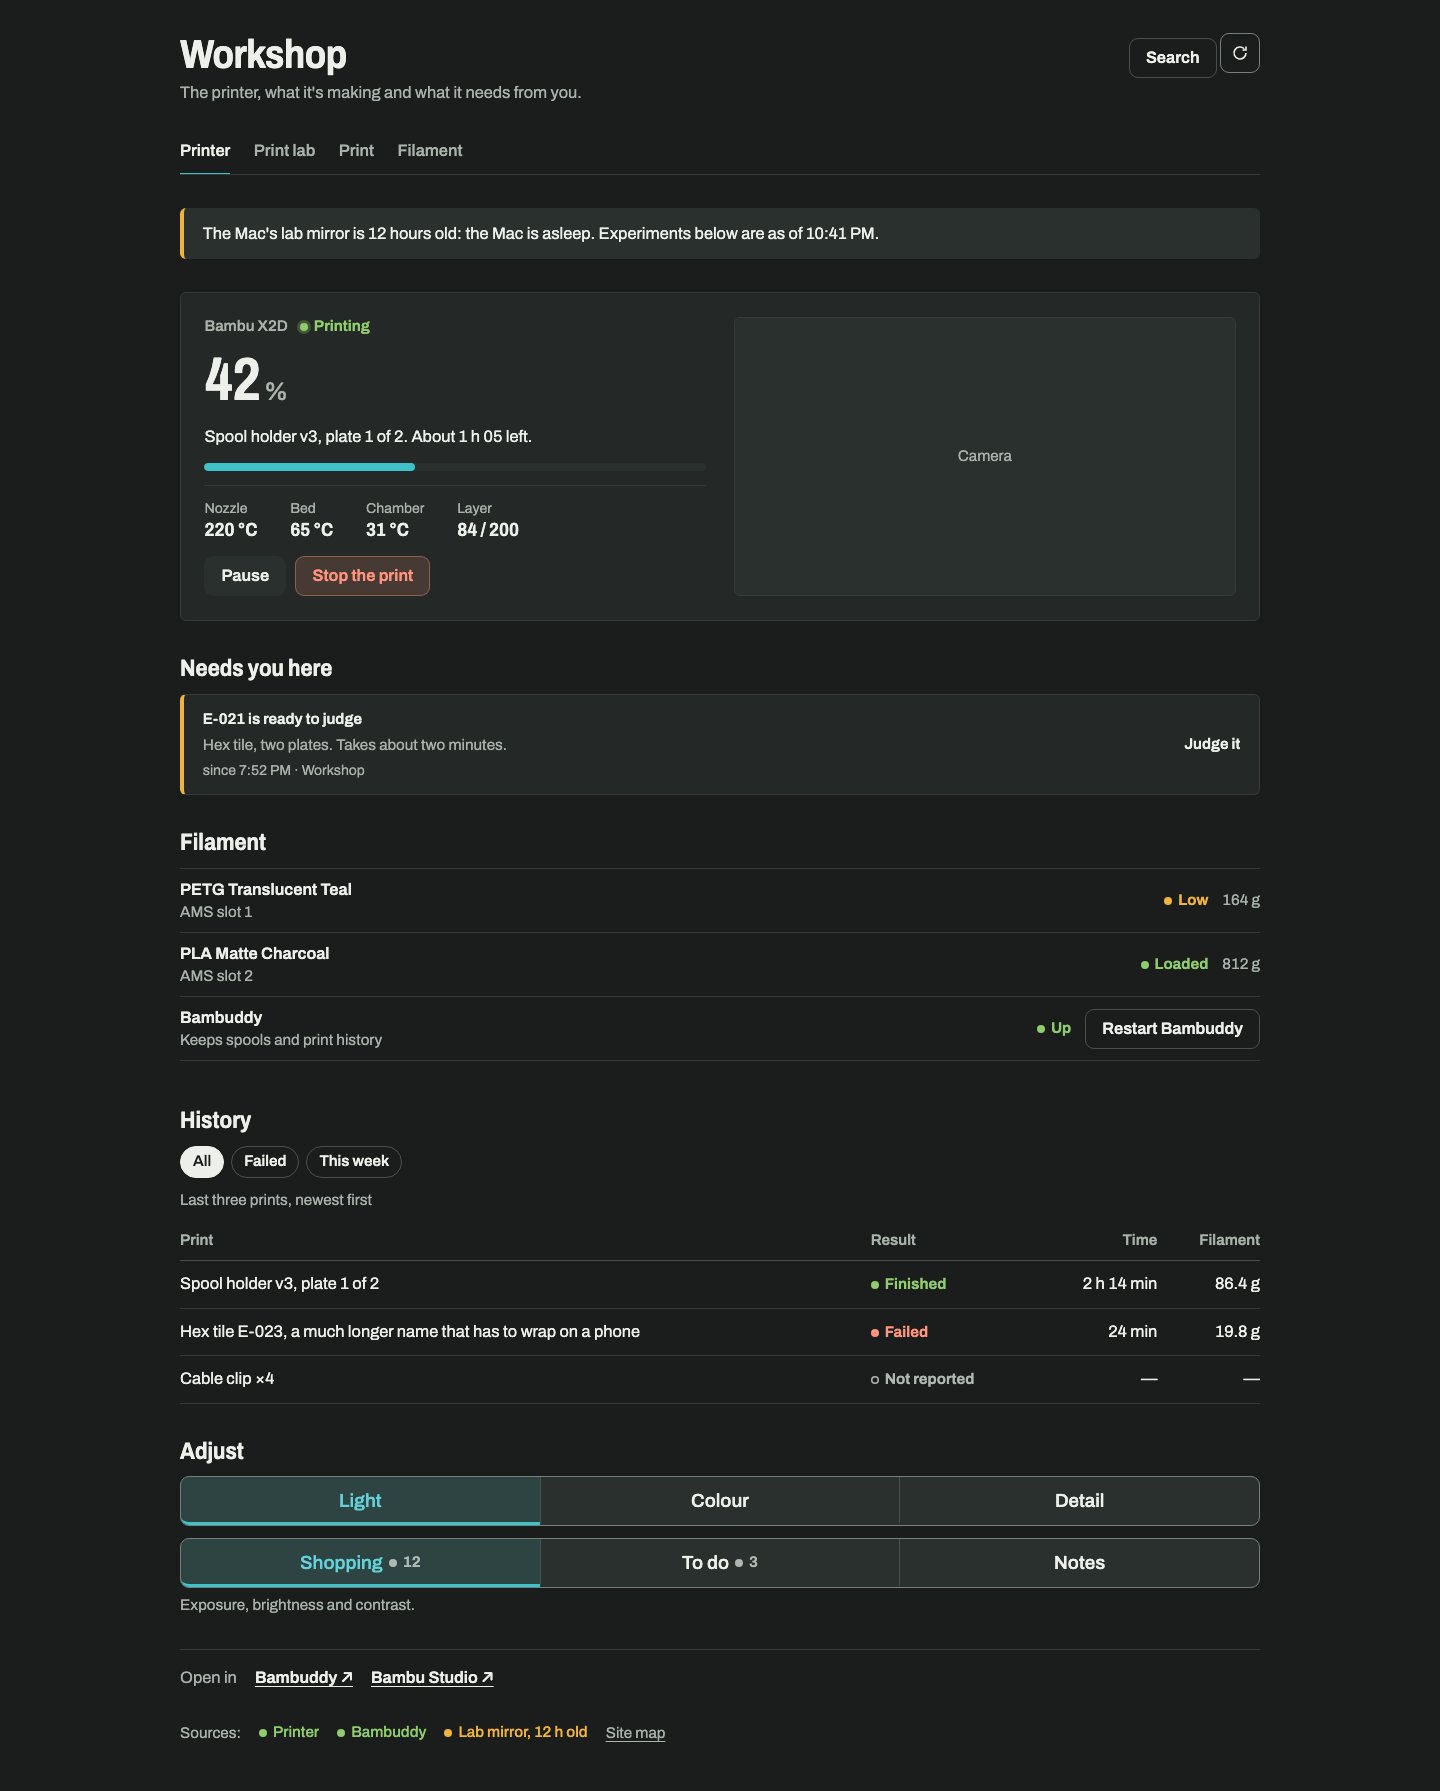
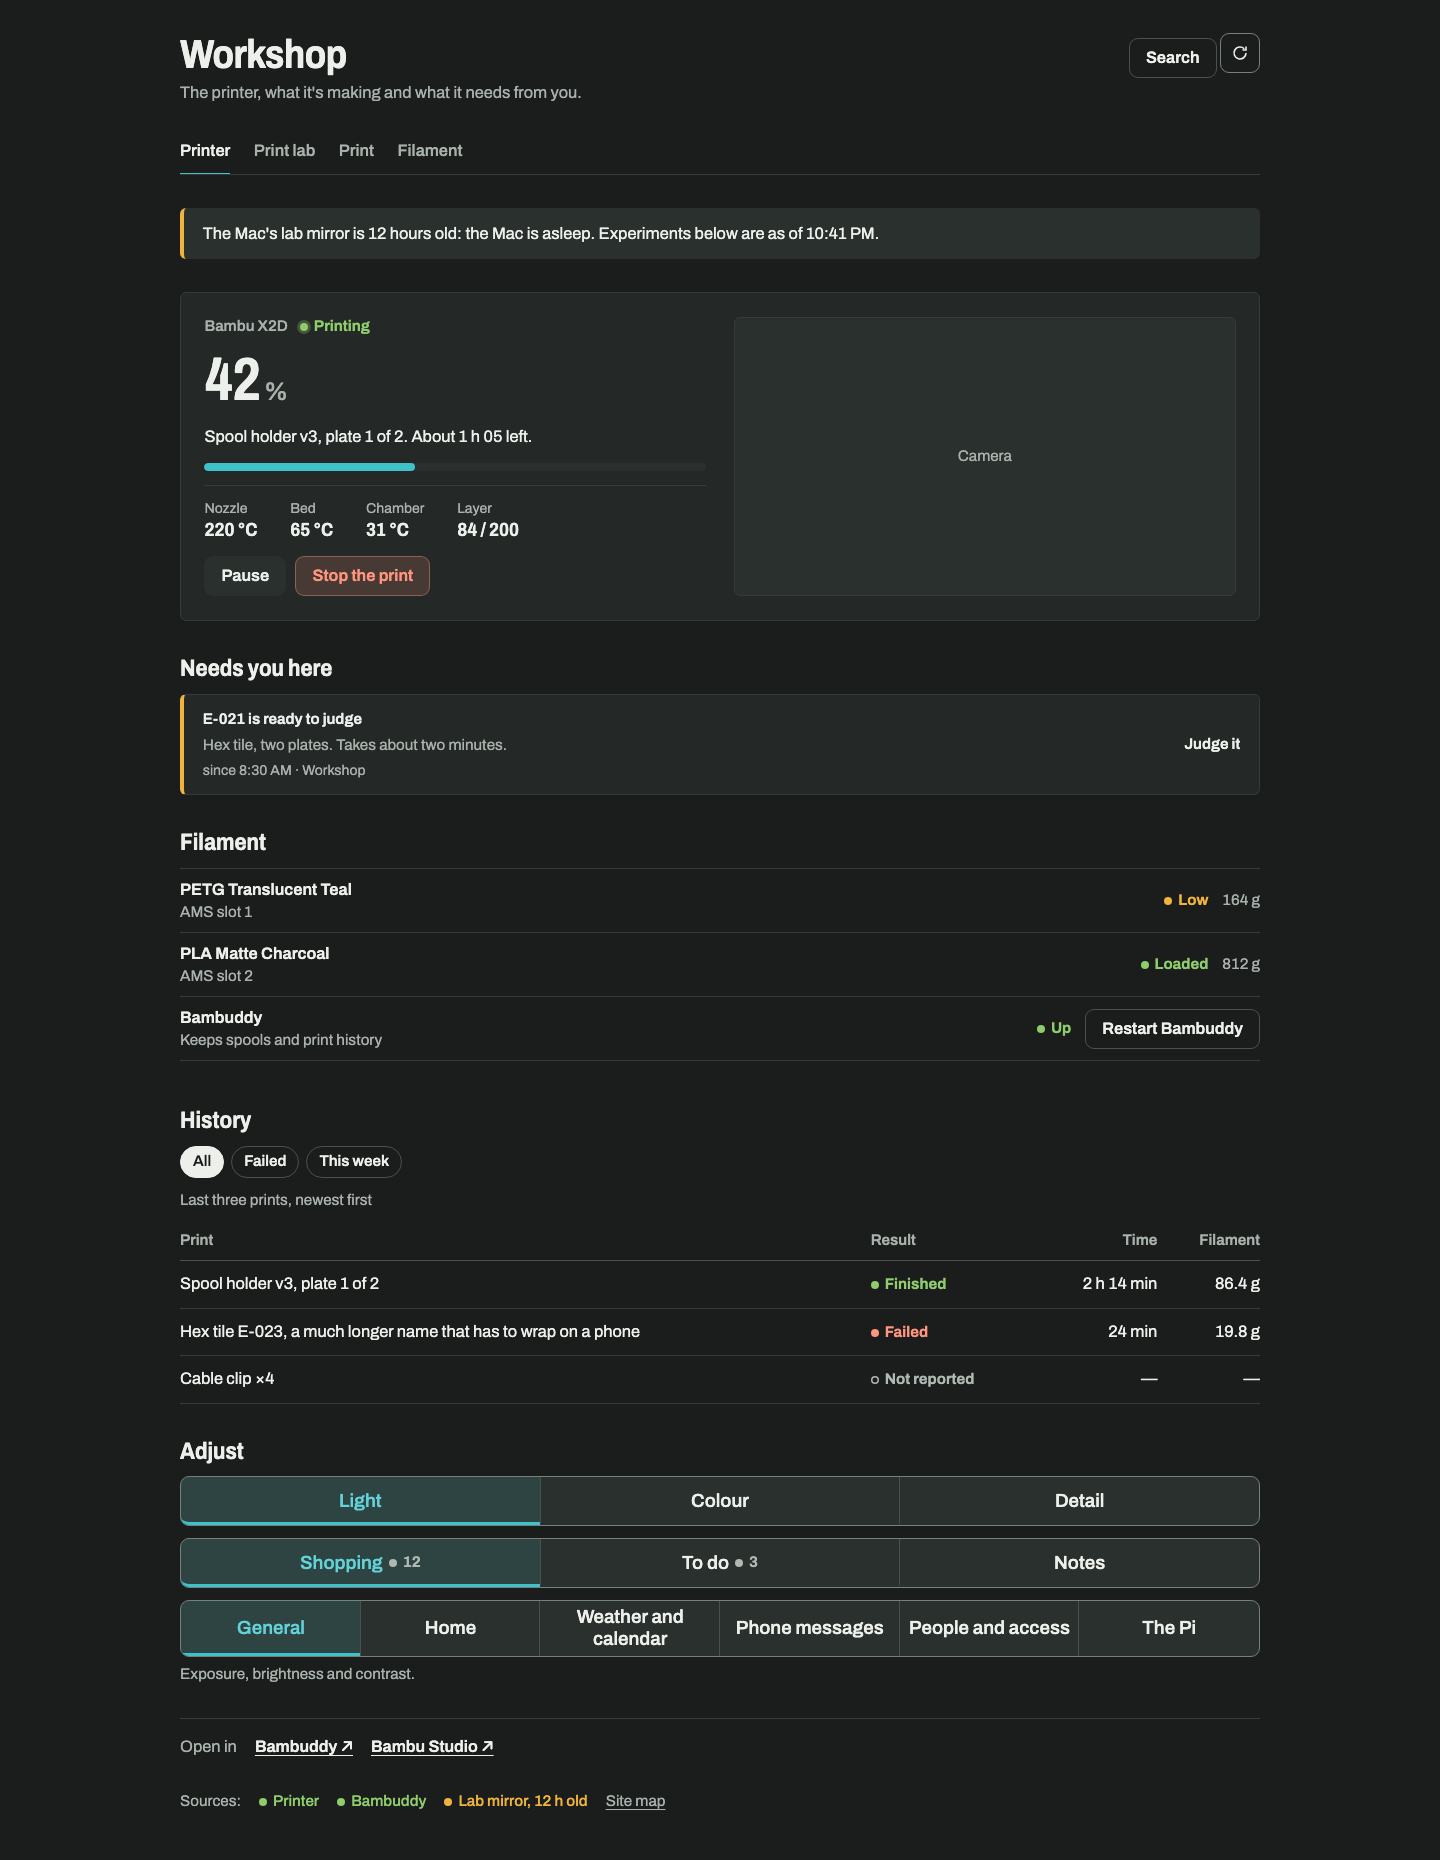
feat: ui-tabs--rows, six tabs on full rows
Pi Hub A22 2.1 (Settings' six groups). Six equal segments overflow a phone (688 px of page at 320 px), so the rows
variant lays them two to a row, three from 25.5 rem and all six from 51 rem, by the strip's own width. A long label
wraps inside its segment. ui-tabs alone is unchanged and stays two to five. The owner chose rows on 12 Nov 2026.

diff --git a/dist/components.css b/dist/components.css
@@ -85,6 +85,18 @@
 .ui-tabs>:is(button,a):is([aria-selected="true"],[aria-current="page"]){background:var(--ui-accent-soft);color:var(--ui-accent-text);border-bottom-color:var(--ui-accent)}
 .ui-tabs>:is(button,a):is(:disabled,[aria-disabled="true"]){color:var(--ui-muted);cursor:default}
 .ui-tabs>:is(button,a):focus-visible{position:relative;z-index:1}
+/* Six tabs (2.17.0), ui-tabs--rows: six equal segments don't fit a phone, so they wrap onto rows, by the strip's own
+   width and never the window's: two to a row, three to a row from 25.5 rem, all six in one row from 51 rem (8.5 rem
+   a segment, which holds a three-word label). Rows are always full, so no segment is left alone. A label too long for its
+   segment wraps inside it and is never cut. The strip clips to its rounded corners, so the focus ring is drawn inside
+   the tab, as in ui-strip. For exactly six tabs; five or fewer use ui-tabs alone. */
+.ui-tabs--rows{display:grid;grid-template-columns:repeat(6,minmax(0,1fr));container-type:inline-size;overflow:hidden}
+.ui-tabs--rows>:is(button,a){grid-column:span 3;white-space:normal;text-align:center;box-shadow:-1px 0 0 var(--ui-line-2),0 -1px 0 var(--ui-line-2)}
+.ui-tabs--rows>:is(button,a)+:is(button,a){border-left:0}
+.ui-tabs--rows>:is(:first-child,:last-child){border-radius:0}
+.ui-tabs--rows>:is(button,a):focus-visible{outline-offset:-2px}
+@container (min-width:25.5rem){.ui-tabs--rows>:is(button,a){grid-column:span 2}}
+@container (min-width:51rem){.ui-tabs--rows>:is(button,a){grid-column:span 1}}
 /* The faceplate: nameplate and lamp, the one readout, a caption, readings, actions; an aside (a camera) beside it. */
 .ui-faceplate{display:grid;grid-template-columns:minmax(0,1fr);gap:calc(var(--ui-space)*4) calc(var(--ui-space)*6);padding:calc(var(--ui-space)*5);background:var(--ui-surface);border:1px solid var(--ui-line);border-radius:var(--ui-r-2);color:var(--ui-text)}
 .ui-faceplate__main{display:grid;gap:calc(var(--ui-space)*3);align-content:start;min-width:0}

diff --git a/src/components.css b/src/components.css
@@ -84,6 +84,18 @@
 .ui-tabs>:is(button,a):is([aria-selected="true"],[aria-current="page"]){background:var(--ui-accent-soft);color:var(--ui-accent-text);border-bottom-color:var(--ui-accent)}
 .ui-tabs>:is(button,a):is(:disabled,[aria-disabled="true"]){color:var(--ui-muted);cursor:default}
 .ui-tabs>:is(button,a):focus-visible{position:relative;z-index:1}
+/* Six tabs (2.17.0), ui-tabs--rows: six equal segments don't fit a phone, so they wrap onto rows, by the strip's own
+   width and never the window's: two to a row, three to a row from 25.5 rem, all six in one row from 51 rem (8.5 rem
+   a segment, which holds a three-word label). Rows are always full, so no segment is left alone. A label too long for its
+   segment wraps inside it and is never cut. The strip clips to its rounded corners, so the focus ring is drawn inside
+   the tab, as in ui-strip. For exactly six tabs; five or fewer use ui-tabs alone. */
+.ui-tabs--rows{display:grid;grid-template-columns:repeat(6,minmax(0,1fr));container-type:inline-size;overflow:hidden}
+.ui-tabs--rows>:is(button,a){grid-column:span 3;white-space:normal;text-align:center;box-shadow:-1px 0 0 var(--ui-line-2),0 -1px 0 var(--ui-line-2)}
+.ui-tabs--rows>:is(button,a)+:is(button,a){border-left:0}
+.ui-tabs--rows>:is(:first-child,:last-child){border-radius:0}
+.ui-tabs--rows>:is(button,a):focus-visible{outline-offset:-2px}
+@container (min-width:25.5rem){.ui-tabs--rows>:is(button,a){grid-column:span 2}}
+@container (min-width:51rem){.ui-tabs--rows>:is(button,a){grid-column:span 1}}
 /* The faceplate: nameplate and lamp, the one readout, a caption, readings, actions; an aside (a camera) beside it. */
 .ui-faceplate{display:grid;grid-template-columns:minmax(0,1fr);gap:calc(var(--ui-space)*4) calc(var(--ui-space)*6);padding:calc(var(--ui-space)*5);background:var(--ui-surface);border:1px solid var(--ui-line);border-radius:var(--ui-r-2);color:var(--ui-text)}
 .ui-faceplate__main{display:grid;gap:calc(var(--ui-space)*3);align-content:start;min-width:0}

diff --git a/demo/page.html b/demo/page.html
@@ -72,6 +72,7 @@
     <h2 id="adjust-h">Adjust</h2>
     <div class="ui-tabs" id="adjust-tabs" role="tablist" aria-label="Adjust"><button type="button" role="tab" id="tab-light" aria-selected="true" aria-controls="adjust-panel">Light</button><button type="button" role="tab" id="tab-colour" aria-selected="false" aria-controls="adjust-panel" tabindex="-1">Colour</button><button type="button" role="tab" id="tab-detail" aria-selected="false" aria-controls="adjust-panel" tabindex="-1">Detail</button></div>
     <div class="ui-tabs" id="list-tabs" role="tablist" aria-label="Lists"><button type="button" role="tab" id="tab-shopping" aria-selected="true">Shopping <span class="ui-chip">12</span></button><button type="button" role="tab" id="tab-todo" aria-selected="false" tabindex="-1">To do <span class="ui-chip">3</span></button><button type="button" role="tab" id="tab-notes" aria-selected="false" tabindex="-1">Notes</button></div>
+    <div class="ui-tabs ui-tabs--rows" id="settings-tabs" role="tablist" aria-label="Settings"><button type="button" role="tab" aria-selected="true">General</button><button type="button" role="tab" aria-selected="false" tabindex="-1">Home</button><button type="button" role="tab" aria-selected="false" tabindex="-1">Weather and calendar</button><button type="button" role="tab" aria-selected="false" tabindex="-1">Phone messages</button><button type="button" role="tab" aria-selected="false" tabindex="-1">People and access</button><button type="button" role="tab" aria-selected="false" tabindex="-1">The Pi</button></div>
     <div id="adjust-panel" role="tabpanel" aria-labelledby="tab-light"><p class="ui-section__note">Exposure, brightness and contrast.</p></div>
   </section>
   <p class="ui-tools">Open in <a href="#">Bambuddy ↗</a><a href="#">Bambu Studio ↗</a></p>

diff --git a/CHANGELOG.md b/CHANGELOG.md
@@ -7,7 +7,7 @@ look at the diff). Releases at or below 2.7.0 were never classified. The drift c
 missing here, as unclassified, so list every release, even a trivial one. When unsure, write "needs consumer change".
 
 ## 2.17.0 — needs consumer change (web): `toolsFor('documents')` and `toolsFor('media')` are now `toolsFor('household')`; a page's "Open in" row comes from its `tools` in `pages.js`
-`pages.json`, the one list of the site's pages (Pi Hub amendment A22, section 3; step 12): every page's name, one-line purpose, address, role, ways in, old addresses and "Open in" tools, for Pi Hub, the Assistant and the Mac. The build checks it and writes `pages.json` and `pages.js` (`AREAS`, `PAGES`, `page(id)`); a sync copies both. Nothing reads them until an app does. In `tools.json`: the areas `documents` and `media` are `household`; Uptime Kuma and Homebox are `retired: true` and leave `toolsFor`; `n8n` and `comfy` are added with `via`, a path on the Assistant's origin, which `toolUrl` returns; the Assistant's purpose reads "Runs on the PC, which may be asleep". No class or token changes.
+`pages.json`, the one list of the site's pages (Pi Hub amendment A22, section 3; step 12): every page's name, one-line purpose, address, role, ways in, old addresses and "Open in" tools, for Pi Hub, the Assistant and the Mac. The build checks it and writes `pages.json` and `pages.js` (`AREAS`, `PAGES`, `page(id)`); a sync copies both. Nothing reads them until an app does. In `tools.json`: the areas `documents` and `media` are `household`; Uptime Kuma and Homebox are `retired: true` and leave `toolsFor`; `n8n` and `comfy` are added with `via`, a path on the Assistant's origin, which `toolUrl` returns; the Assistant's purpose reads "Runs on the PC, which may be asleep". One new class, `ui-tabs--rows`: six tabs (Settings' groups, A22 2.1) wrap onto full rows by the strip's own width, two to a row on a phone, then three, then all six; a long label wraps inside its segment and is never cut. `ui-tabs` alone is unchanged, and stays two to five. No token changes.
 
 ## 2.16.1 — skippable
 The tool registry names the hub "Pi Hub" (it was "Home", which is also the start page's name). Pi Hub amendment A22, step 11: one name per thing. No class, token or behaviour changes; a consumer that shows the `hub` tool's name shows the new one after its next sync.

diff --git a/DESIGN.md b/DESIGN.md
@@ -226,6 +226,7 @@ is added to this kit, never to one app.
 |---|---|
 | Page head, strip, filters | `ui-page__head`, `ui-strip`, `ui-chips` |
 | The views of one area (two to five) | `ui-tabs` (2.16): `role="tablist"`, arrow keys move between tabs |
+| Six views of one area (Settings' groups) | `ui-tabs ui-tabs--rows` (2.17): the same tabs on full rows, two to a row on a phone, then three, then all six, by the strip's own width. Six is the most; a seventh view means the page is two pages |
 | The page's state and main action | `ui-faceplate` with `ui-readout`, `ui-chip`, `ui-btn--primary` |
 | Lists of things | `ui-rows` / `ui-row--lamp` (lamp, value, one action on the right) |
 | Comparing records | `ui-table`, `ui-table__num`, `ui-table--stack` (2.7) |
